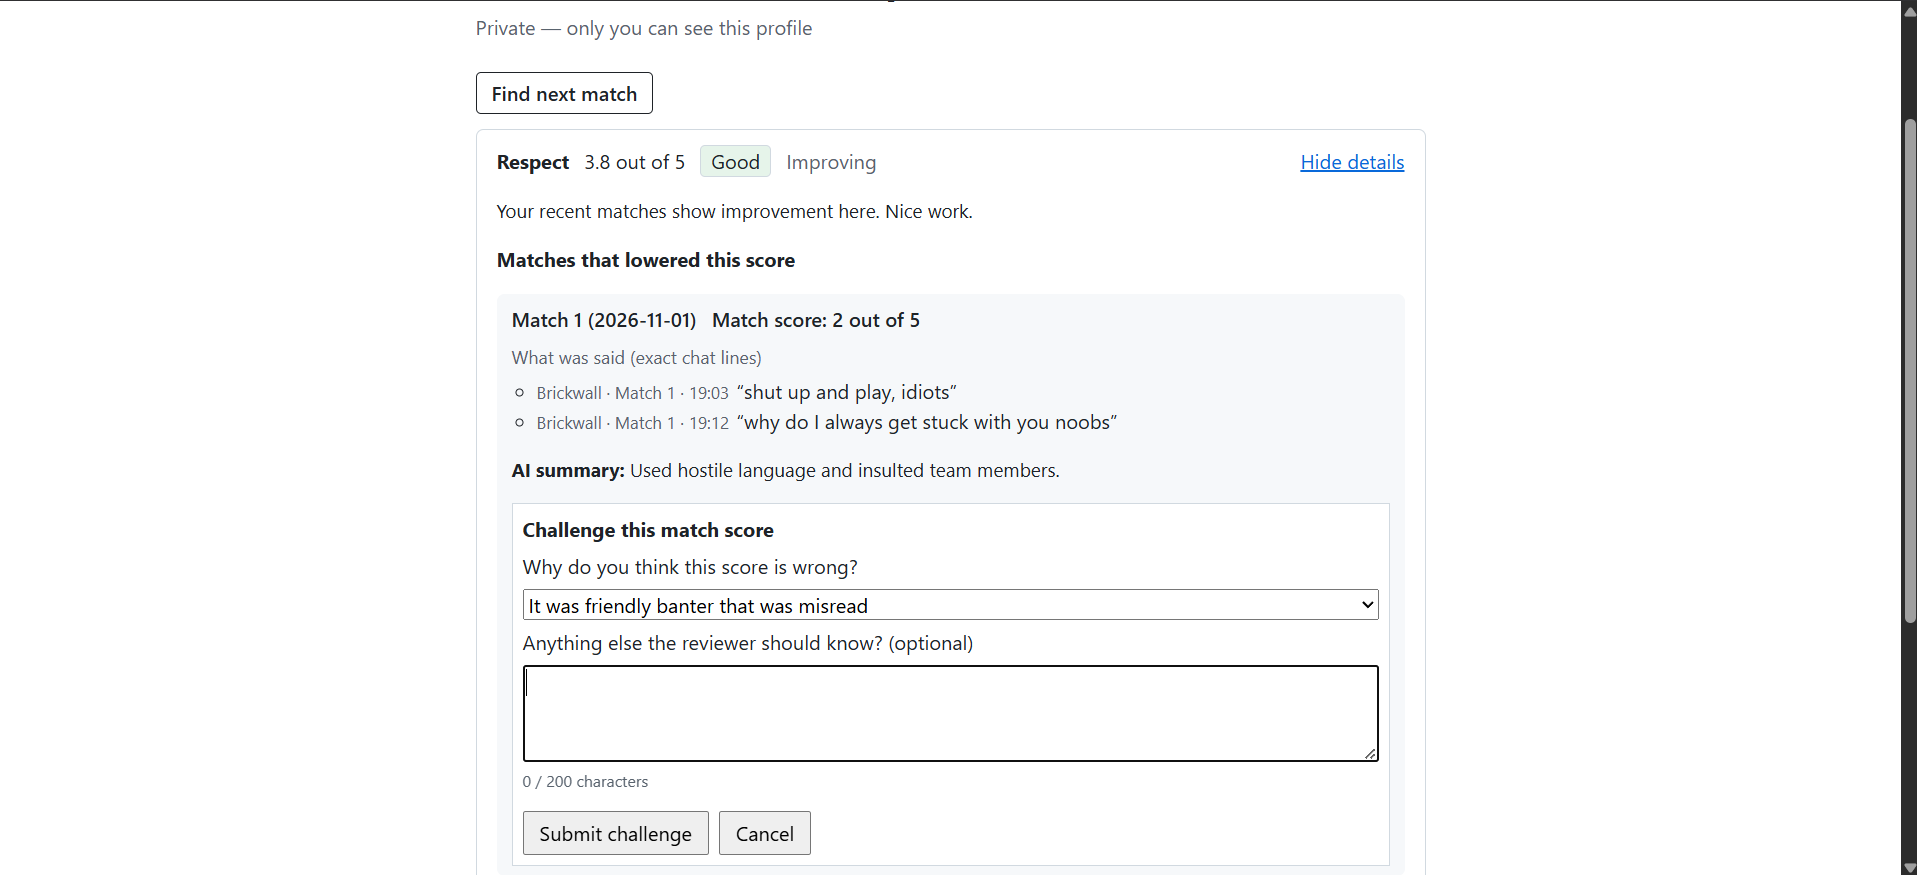
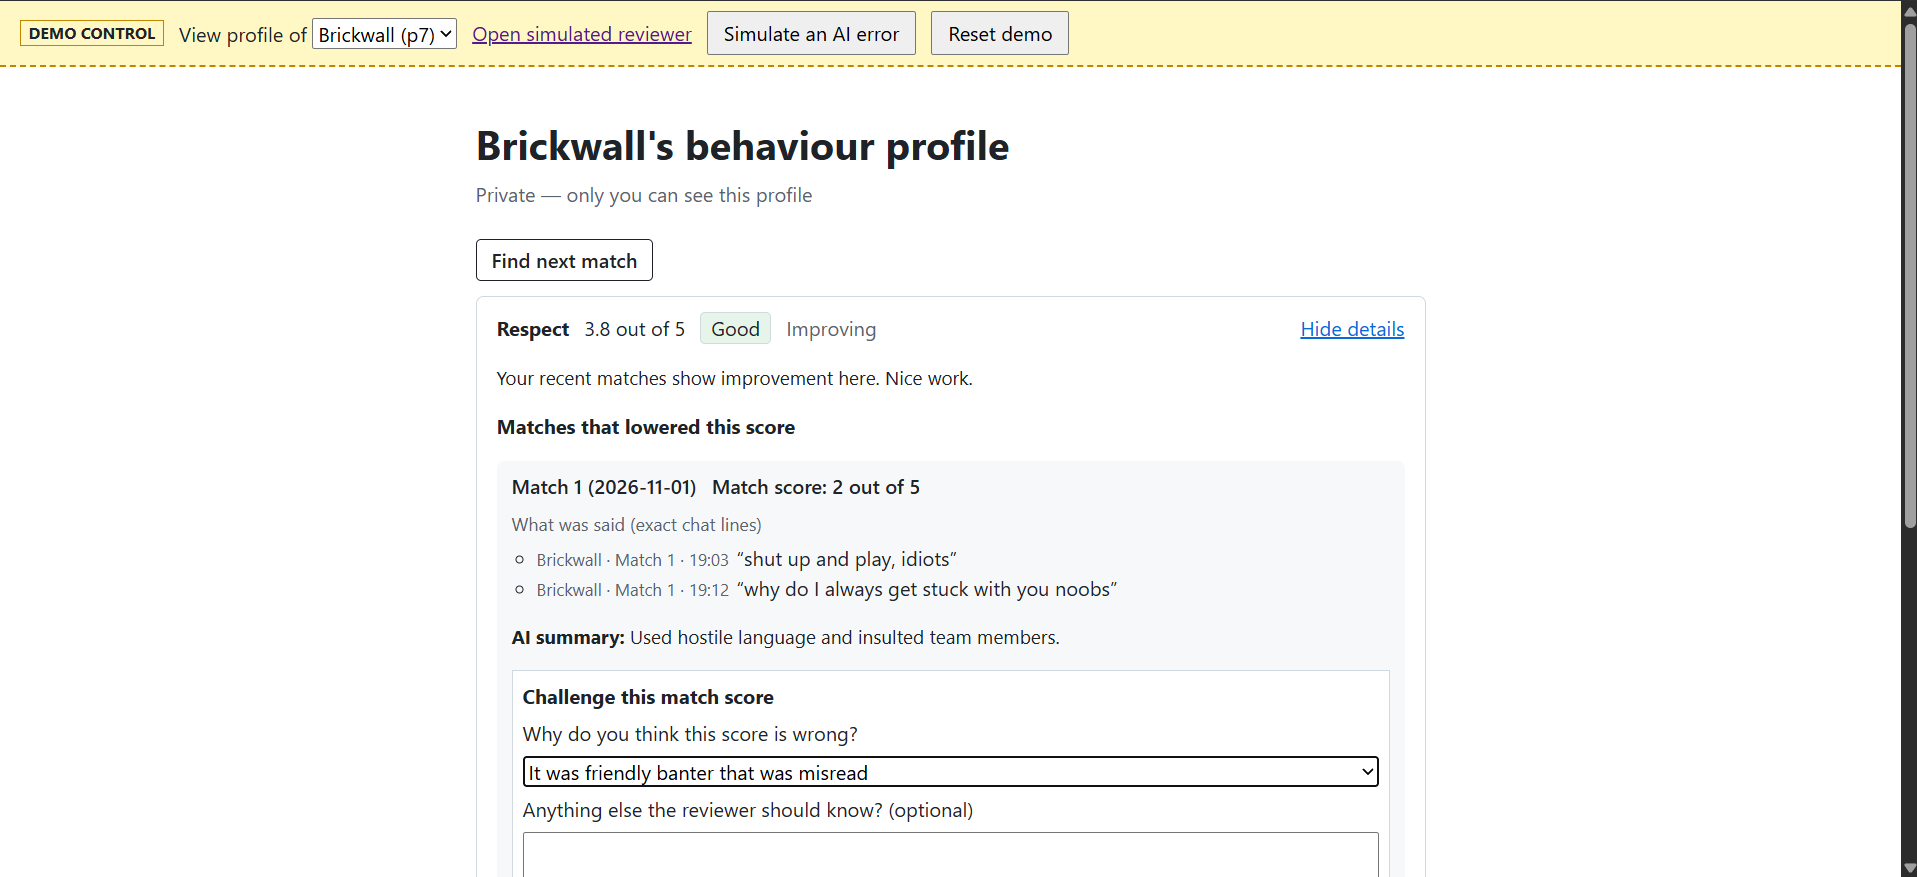
Add system diagram; retake Story 1 and s2-05 screenshots

diff --git a/README.md b/README.md
@@ -127,6 +127,7 @@ Details, with what I kept or changed each time, are in [docs/ai-usage-log.md](do
 - `docs/development-log.md` and `docs/ai-usage-log.md`: development record and AI use.
 - `docs/expected-outcomes.md` and `docs/test-results-day3.md`: expected results per test case and the four live runs.
 - `docs/screenshots/`: screenshots of both demo stories.
+- `docs/system-diagram.png` / `.svg`: system diagram; `docs/system-diagram.mmd`: its Mermaid source (drafted with Claude, checked against the code).
 - `data/matches/`, `data/players.json`: synthetic chat logs; `data/README.md` maps test cases A–H to message IDs.
 - `data/demo/run4-match-results.json`: live run 4 results used by the demo.
 - `data/guidance.json`: improvement tips. `prompts/scoring-prompt.md`: the scoring prompt (v2).
